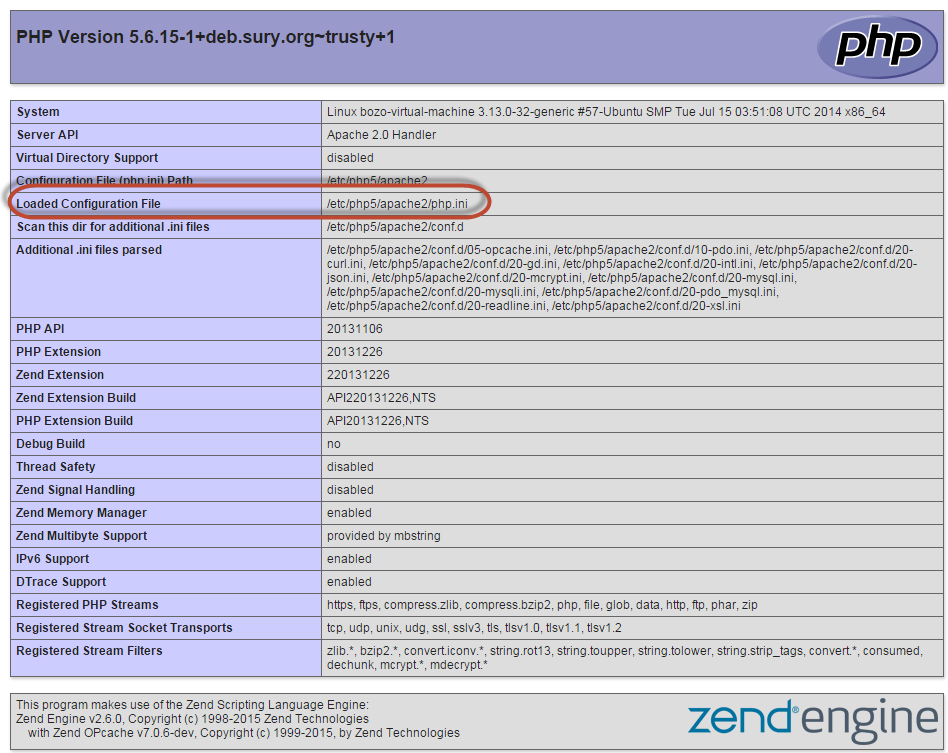
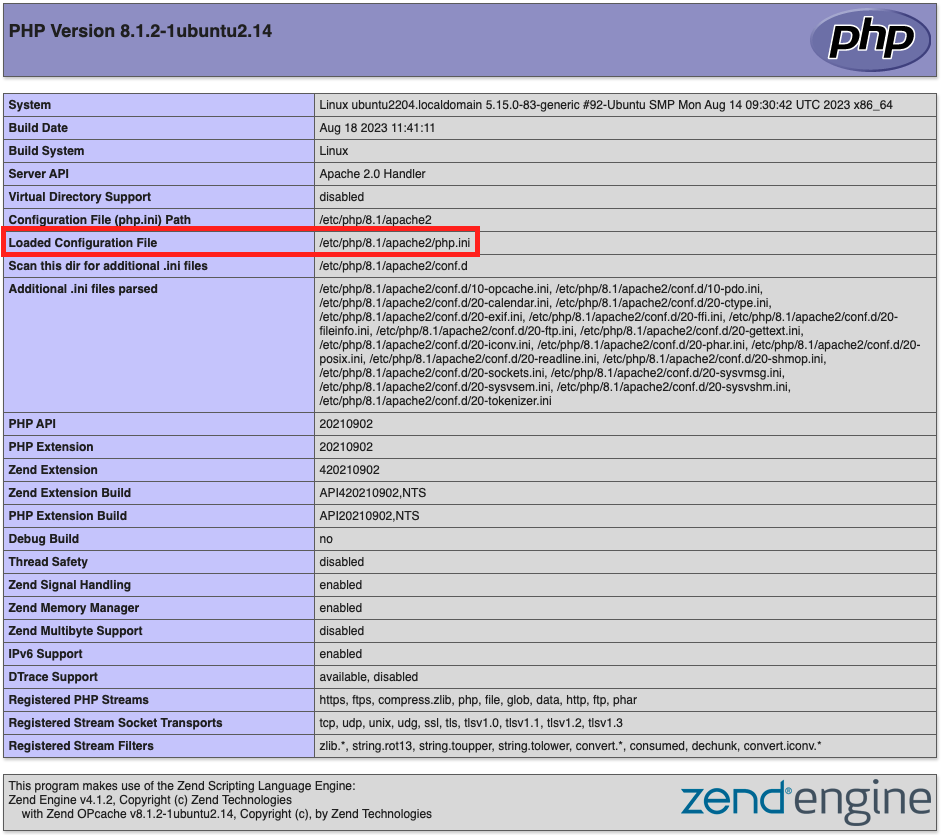
COMDOX-776: Updated PHP settings with latest supported version of PHP

diff --git a/help/installation/prerequisites/php-settings.md b/help/installation/prerequisites/php-settings.md
@@ -4,17 +4,18 @@ description: Follow these steps to install required PHP extensions and configure
 feature: Install, Configuration
 exl-id: 84064442-7053-42ab-a8a6-9b313e5efc78
 ---
+
 # PHP settings
 
 This topic discusses how to set required PHP options.
 
 >[!NOTE]
 >
->See [system requirements](../system-requirements.md) for supported versions of PHP.
+>The latest version of Adobe Commerce and Magento Open Source requires a minimum of PHP 8.1. See [system requirements](../system-requirements.md) for all supported versions of PHP.
 
 ## Verify PHP is installed
 
-Most flavors of Linux have PHP installed by default. This topic assumes that you have already installed PHP. To verify if PHP is installed already, in the command line, type:
+PHP is installed by default on most Linux distributions. This topic assumes that you have already installed PHP. To verify if PHP is installed, enter the following on the command line:
 
 ```bash
 php -v
@@ -23,19 +24,17 @@ php -v
 If PHP is installed, a message similar to the following displays:
 
 ```terminal
-PHP 7.4.0 (cli) (built: Aug 14 2019 16:42:46) ( NTS )
-Copyright (c) 1997-2018 The PHP Group
-Zend Engine v3.1.0, Copyright (c) 1998-2018 Zend Technologies with Zend OPcache v7.1.6, Copyright (c) 1999-2018, by Zend Technologies
+PHP 8.1.2-1ubuntu2.14 (cli) (built: Aug 18 2023 11:41:11) (NTS)
+Copyright (c) The PHP Group
+Zend Engine v4.1.2, Copyright (c) Zend Technologies
+    with Zend OPcache v8.1.2-1ubuntu2.14, Copyright (c), by Zend Technologies
 ```
 
-Adobe Commerce and Magento Open Source 2.4 is compatible with PHP 7.3, but we test with, and recommend using, PHP 7.4.
-
-If PHP is not installed, or a version upgrade is needed, install it following instructions for your particular Linux flavor.
-On CentOS, [additional steps may be required](https://wiki.centos.org/HowTos/php7).
+If PHP is not installed (or requires an upgrade), install it by following the instructions for your Linux distribution.
 
 ## Verify installed extensions
 
-Adobe Commerce and Magento Open Source requires a set of extensions to be installed.
+Adobe Commerce and Magento Open Source require certain PHP extensions. The following lists specify required extensions for each edition of Commerce. The lists are autogenerated from a deployment running the latest version of each edition.
 
 {{$include /help/_includes/templated/php-extensions.md}}
 
@@ -48,11 +47,7 @@ To verify installed extensions:
    ```
 
 1. Verify that all required extensions are installed.
-1. Add any missing modules using the same workflow used for installing PHP. For example, if you use `yum` to install PHP, the PHP 7.4 modules can be added with:
-
-   ```bash
-    yum -y install php74u-pdo php74u-mysqlnd php74u-opcache php74u-xml php74u-gd php74u-devel php74u-mysql php74u-intl php74u-mbstring php74u-bcmath php74u-json php74u-iconv php74u-soap
-   ```
+1. Add any missing modules using the same workflow used for installing PHP.
 
 ## Check PHP settings
 
@@ -68,7 +63,7 @@ PHP Warning:  date(): It is not safe to rely on the system's timezone settings. 
 
 -  Set the PHP memory limit.
 
-   Our detailed recommendations are:
+   Adobe recommends the following:
 
     -  Compiling code or deploying static assets, `1G`
     -  Debugging, `2G`
@@ -81,17 +76,17 @@ PHP Warning:  date(): It is not safe to rely on the system's timezone settings. 
    realpath_cache_ttl=7200
    ```
 
-   These settings allow PHP processes to cache paths to files instead of looking them up each time a page loads. See [Performance Tuning](https://www.php.net/manual/en/ini.core.php) in the PHP documentation.
+   These settings allow PHP processes to cache paths to files instead of looking them up on page load. See [Performance Tuning](https://www.php.net/manual/en/ini.core.php) in the PHP documentation.
 
 -  Enable [`opcache.save_comments`](https://www.php.net/manual/en/opcache.configuration.php#ini.opcache.save-comments), which is required for Adobe Commerce and Magento Open Source 2.1 and later.
 
-   We recommend you enable the [PHP OPcache](https://www.php.net/manual/en/book.opcache.php) for performance reasons. The OPcache is enabled in many PHP distributions.
+   Adobe recommends enabling the [PHP OPcache](https://www.php.net/manual/en/book.opcache.php) for performance reasons. The OPcache is enabled in many PHP distributions.
 
    Adobe Commerce and Magento Open Source 2.1 and later use PHP code comments for code generation.
 
 >[!NOTE]
 >
->To avoid issues during installation and upgrade, we strongly recommend you apply the same PHP settings to both the PHP command-line configuration and the PHP web server plug-in configuration. For more information, see the next section.
+>To avoid issues during installation and upgrade, Adobe strongly recommends that you apply the same PHP settings to both the PHP command-line configuration and the PHP web server plug-in configuration. For more information, see the next section.
 
 ## Find PHP configuration files
 
@@ -111,7 +106,7 @@ php --ini | grep "Loaded Configuration File"
 
 >[!NOTE]
 >
->If you have only one `php.ini` file, make the changes in that file. If you have two `php.ini` files, make the changes in *all* files. Failure to do so might cause unpredictable performance.
+>If you have only one `php.ini` file, change that file. If you have two `php.ini` files, change *both* files. Failure to do so might cause unpredictable performance.
 
 ### Find OPcache configuration settings
 
@@ -131,7 +126,7 @@ Use the following guidelines to find it:
    sudo find / -name 'opcache.ini'
    ```
 
--  nginx web server with PHP-FPM: `/etc/php/7.2/fpm/php.ini`
+-  nginx web server with PHP-FPM: `/etc/php/8.1/fpm/php.ini`
 
 If you have more than one `opcache.ini`, modify all of them.
 
@@ -183,7 +178,7 @@ To set `opcache.ini` options:
 
    -  `opcache.ini` (CentOS)
    -  `php.ini` (Ubuntu)
-   -  `/etc/php/7.2/fpm/php.ini` (nginx web server (CentOS or Ubuntu))
+   -  `/etc/php/8.1/fpm/php.ini` (nginx web server (CentOS or Ubuntu))
 
 1. Locate `opcache.save_comments` and uncomment it if necessary.
 1. Make sure that its value is set to `1`.
@@ -198,7 +193,7 @@ To set `opcache.ini` options:
 
 See the following Adobe Commerce Support articles for help with troubleshooting PHP problems:
 
--  [PHP version error or 404 error when accessing Adobe Commerce in browser](https://support.magento.com/hc/en-us/articles/360033117152-PHP-version-error-or-404-error-when-accessing-Magento-in-browser)
+-  [PHP version error or 404 error when accessing Adobe Commerce in a browser](https://support.magento.com/hc/en-us/articles/360033117152-PHP-version-error-or-404-error-when-accessing-Magento-in-browser)
 -  [PHP settings errors](https://support.magento.com/hc/en-us/articles/360034599631-PHP-settings-errors)
 -  [PHP mcrypt extension not installed properly](https://support.magento.com/hc/en-us/articles/360034280132-PHP-mcrypt-extension-not-installed-properly-)
 -  [PHP version readiness check issues](https://support.magento.com/hc/en-us/articles/360033546411)
